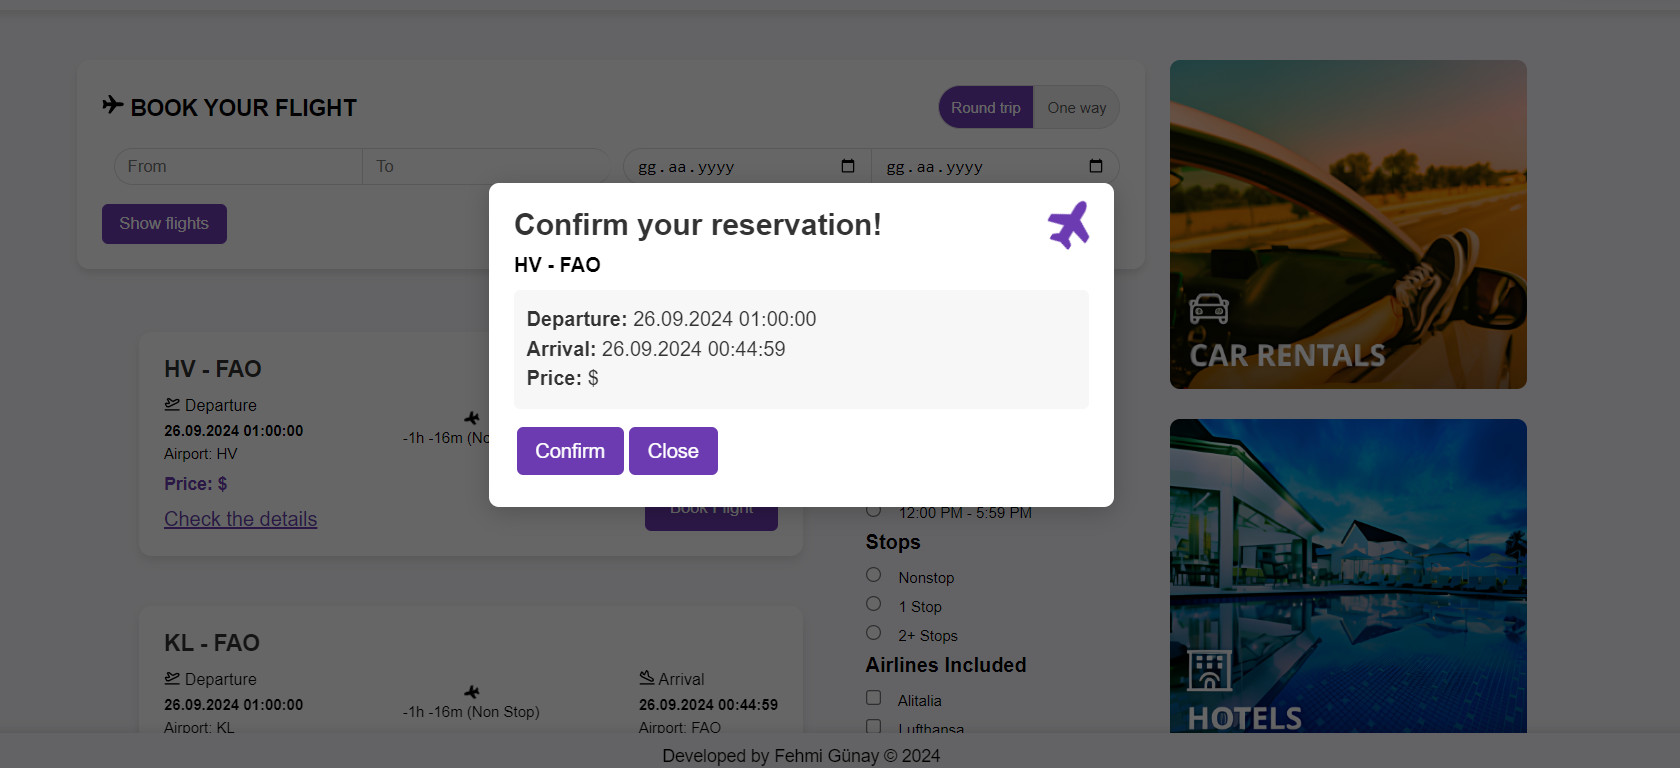
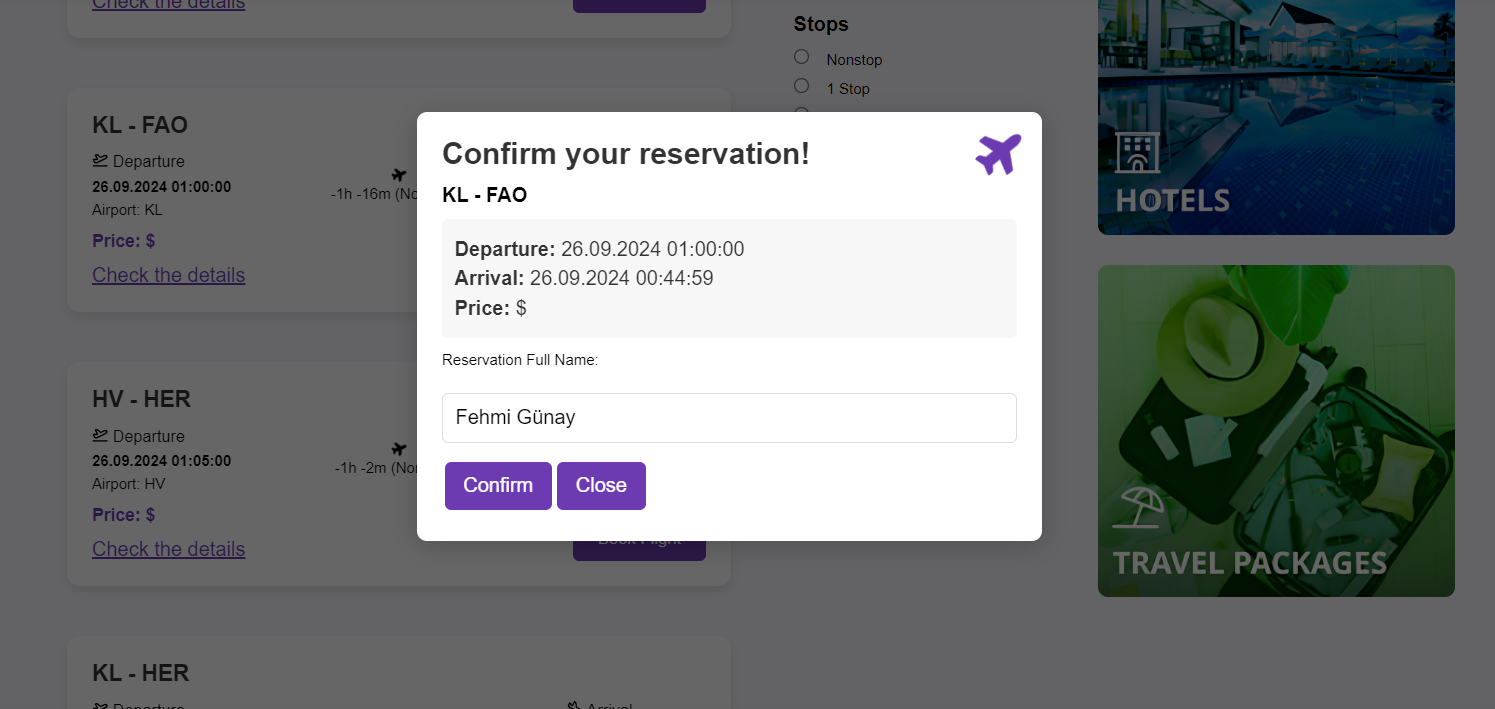
done

diff --git a/client/src/components/BookingModal.jsx b/client/src/components/BookingModal.jsx
@@ -1,17 +1,18 @@
-import React, { useEffect } from 'react';
+import React, { useEffect, useState } from 'react';
 import '../styles/BookingModal.css';
 import { FaPlane } from 'react-icons/fa';
 import { useDispatch, useSelector } from 'react-redux';
 import { useNavigate } from 'react-router-dom';
-import { showConfirmation, setCountdown} from '../redux/actions/modalActions';
+import { showConfirmation, setCountdown } from '../redux/actions/modalActions';
 
 const BookingModal = ({ flight, onClose, onConfirm }) => {
   const dispatch = useDispatch();
   const navigate = useNavigate();
 
-  const { userName, countdown, showConfirmation: isConfirmationShown } = useSelector((state) => state.modal);
+  const { countdown, showConfirmation: isConfirmationShown } = useSelector((state) => state.modal);
+  const [userName, setUserName] = useState('Fehmi Günay');
 
-  // rezervasyon işlemleri
+  // Rezervasyon işlemleri
   const handleConfirm = () => {
     const reservationData = {
       flightName: flight.flightName,
@@ -25,7 +26,7 @@ const BookingModal = ({ flight, onClose, onConfirm }) => {
     dispatch(showConfirmation(true));
   };
 
-  // modalda rezervasyon onaylandığı takdirde yönlendirmek için işlemler (geri sayım vs.)
+  // Modalda rezervasyon onaylandığı takdirde yönlendirmek için işlemler (geri sayım vs.)
   useEffect(() => {
     if (isConfirmationShown) {
       const timer = setInterval(() => {
@@ -34,7 +35,6 @@ const BookingModal = ({ flight, onClose, onConfirm }) => {
           clearInterval(timer);
           navigate('/myflights');    
         }
-        
       }, 1000);
       
       return () => clearInterval(timer);
@@ -72,6 +72,15 @@ const BookingModal = ({ flight, onClose, onConfirm }) => {
               <p className="modal-content-header-text">
                 <span>Price:</span> ${flight.price}
               </p>
+            </div>
+            <div className="input-container">
+              <label htmlFor="userName">Reservation Full Name:</label>
+              <input
+                type="text"
+                id="userName"
+                value={userName}
+                onChange={(e) => setUserName(e.target.value)}
+              />
             </div>
             <button onClick={handleConfirm} className="confirm-button">Confirm</button>
             <button onClick={onClose} className="close-button">Close</button>

diff --git a/README.md b/README.md
@@ -53,7 +53,7 @@ Dolayısıyla filtreleme işlemleri kalkış-varış ve uçuş tarihleri üzerin
 ## KULLANIM
 
 Proje ana dizinindeyken server klasörüne girip terminal üzerinden "npm start" komutu ile server kısmı çalıştırılmalıdır. Server is running on:  5000
-MongoDB Connected uyarılarını konsolda görüyorsa server başarılı bir şekilde çalışmaktadır.
+MongoDB Connected uyarıları konsolda görünüyorsa server başarılı bir şekilde çalışmaktadır.
 
 Ara yüz kısmı için ana dizindeyken client klasörüne girip "npm start" komutu ile projeyi derleyebiliriz.
 
